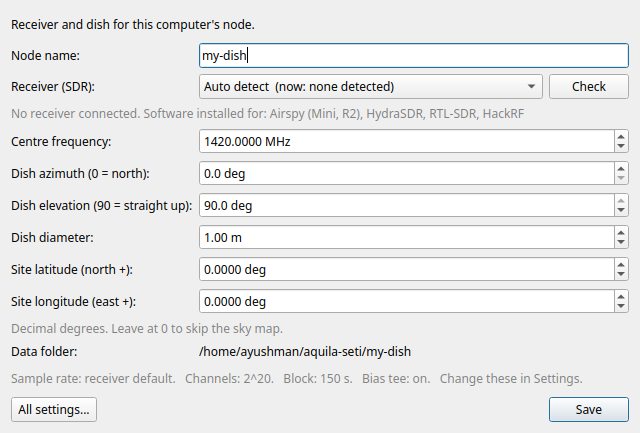
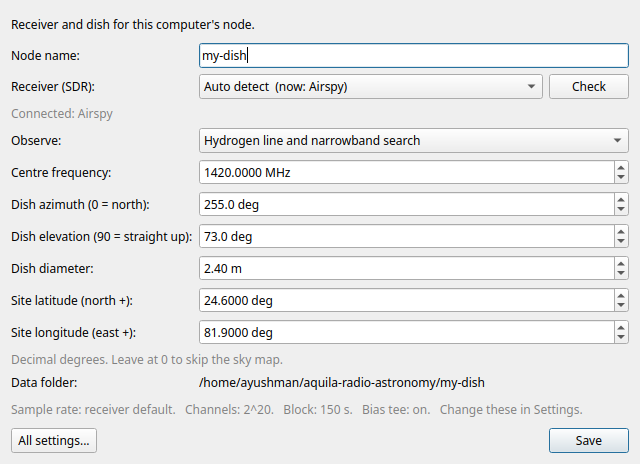
Hydrogen line only or with the narrowband search, chosen in Quick setup or Settings
The search tabs are hidden when it is off and Start runs the line alone.
Descriptions no longer mention dish size or receiver price. README leads
with the hydrogen line screenshot.

Changed region(s): [[0.0, 0.03, 1.0, 0.9908]]

diff --git a/aquila/gui.py b/aquila/gui.py
@@ -792,6 +792,11 @@ class Settings(QDialog):
         self.auto_login.setChecked(autostart.enabled())
         self.auto_obs = QCheckBox("Start observing as soon as the app opens")
         self.auto_obs.setChecked(bool((cfg.get("app") or {}).get("observe_on_open")))
+        self.narrow = QCheckBox("Narrowband search as well as the hydrogen line")
+        self.narrow.setChecked((cfg.get("app") or {}).get("narrowband", True))
+        self.narrow.setToolTip("Off: the app observes the hydrogen line only and the search "
+                               "tabs are hidden. Change it any time.")
+        form.addRow("Observe:", self.narrow)
         form.addRow("Startup:", self.auto_login)
         form.addRow("", self.auto_obs)
         snote = QLabel("Tick both and a node comes back by itself after a power cut, once "
@@ -903,7 +908,8 @@ class Settings(QDialog):
             c["_state_dir_set"] = True
         c["save"] = {"csv": self.s_csv.isChecked(), "plots": self.s_plots.isChecked(),
                      "spectra": self.s_spectra.isChecked(), "raw_iq": self.s_raw.isChecked()}
-        c["app"] = dict(c.get("app") or {}, observe_on_open=self.auto_obs.isChecked())
+        c["app"] = dict(c.get("app") or {}, observe_on_open=self.auto_obs.isChecked(),
+                        narrowband=self.narrow.isChecked())
         c["_autostart"] = self.auto_login.isChecked()
         c["center_mhz"] = self.freq.value()
         c["sample_rate"] = int(self.rate.currentData() or 0)
@@ -958,6 +964,14 @@ class QuickSetup(QDialog):
         self._scan = Call(sdr.attached)
         self._scan.done.connect(lambda names, found=found: self._scanned(names, found))
         self._scan.start()
+        self.mode = QComboBox()
+        self.mode.addItem("Hydrogen line only", False)
+        self.mode.addItem("Hydrogen line and narrowband search", True)
+        self.mode.setCurrentIndex(1 if (cfg.get("app") or {}).get("narrowband", True) else 0)
+        self.mode.setToolTip("The narrowband search looks for drifting signals across the "
+                             "band in the same observation. Can be turned on or off later "
+                             "in Settings.")
+        form.addRow("Observe:", self.mode)
         self.freq = Settings._spin(0, 30000, cfg["center_mhz"], 4, " MHz")
         form.addRow("Centre frequency:", self.freq)
         d = cfg["dish"]
@@ -1034,6 +1048,7 @@ class QuickSetup(QDialog):
         c["_state_dir_set"] = self.cfg.get("_state_dir_set")
         c["name"] = self.name.text().strip() or "my-dish"
         c["sdr"] = self.sdr.currentData()
+        c["app"] = dict(c.get("app") or {}, narrowband=bool(self.mode.currentData()))
         c["center_mhz"] = self.freq.value()
         c["dish"].update({"az": self.az.value(), "el": self.el.value(),
                           "diameter_m": self.dia.value()})
@@ -1077,7 +1092,7 @@ class Main(QMainWindow):
             # a service or an earlier copy of the app is observing already: leave it
             self.sb.showMessage(f"Not started: the data folder is in use (pid {other})", 15000)
             return
-        self.start("run")
+        self.start("run" if self.narrowband() else "hline")
 
     def first_run(self):
         self.quick_setup()
@@ -1102,6 +1117,7 @@ class Main(QMainWindow):
         self.cfg = config.load(self.cfg_path)     # state_dir follows the name until set by hand
         self.nodes[0] = Node(self.cfg["name"] + " (this computer)", self.cfg["state_dir"])
         self._fill_nodes()
+        self._apply_mode()
         if self.proc is not None and self.proc.state() != QProcess.NotRunning:
             QMessageBox.information(
                 self, "Settings", "Dish pointing and site apply from the next block. "
@@ -1257,7 +1273,7 @@ class Main(QMainWindow):
         outer.setSizes([600, 220])
         outer.setStretchFactor(0, 3)
         outer.setStretchFactor(1, 1)
-        tabs.addTab(outer, "Narrowband search")
+        self.sv_tab = tabs.addTab(outer, "Narrowband search")
 
         # Hydrogen line
         w = QSplitter(Qt.Vertical)
@@ -1312,7 +1328,7 @@ class Main(QMainWindow):
         w.setSizes([560, 260])
         w.setStretchFactor(0, 3)
         w.setStretchFactor(1, 1)
-        tabs.addTab(w, "Hydrogen line")
+        self.hl_tab = tabs.addTab(w, "Hydrogen line")
 
         # Candidates
         w = QWidget()
@@ -1331,7 +1347,7 @@ class Main(QMainWindow):
         self.c_thumb = ImagePane("Select a candidate to see its block.")
         right.addWidget(self.c_thumb, 1)
         lay.addLayout(right, 2)
-        tabs.addTab(w, "Candidates")
+        self.c_tab = tabs.addTab(w, "Candidates")
 
         # Log
         self.log = QPlainTextEdit()
@@ -1342,6 +1358,20 @@ class Main(QMainWindow):
         self.log_tab = tabs.addTab(self.log, "Log")
         self.tabs = tabs
         tabs.currentChanged.connect(lambda i: i == self.log_tab and self.refresh(force=True))
+        self._apply_mode()
+
+    def narrowband(self):
+        return bool((self.cfg.get("app") or {}).get("narrowband", True))
+
+    def _apply_mode(self):
+        """Hydrogen line only: the search tabs go away and Start runs the line alone."""
+        nb = self.narrowband()
+        self.tabs.setTabVisible(self.sv_tab, nb)
+        self.tabs.setTabVisible(self.c_tab, nb)
+        self.a_seti.setVisible(nb)
+        self.a_hline.setText("Start hydrogen line only" if nb else "Start observing")
+        if not nb and self.tabs.currentIndex() in (self.sv_tab, self.c_tab):
+            self.tabs.setCurrentIndex(self.hl_tab)
 
         self.sb = self.statusBar()
         self.sb_label = QLabel("")
@@ -2173,7 +2203,7 @@ class Main(QMainWindow):
                                                Qt.SmoothTransformation))
         box.setText(
             f"Aquila Radio Astronomy {__version__}\n\nNarrowband search and hydrogen line "
-            "observing for small dishes.\n\nAyushman Tripathi\n"
+            "observing with a dish and an SDR.\n\nAyushman Tripathi\n"
             "www.radioastronomy.in\n\n"
             "MIT licence: free for anyone to use and modify.\n\n"
             "Hydrogen line plots by Virgo (astro-virgo, GPL-3), "

diff --git a/aquila/config.py b/aquila/config.py
@@ -57,6 +57,7 @@ DEFAULTS = {
     "hline": {},                   # overrides for aquila.hline.DEFAULTS
     "app": {
         "observe_on_open": False,  # the desktop app starts observing as soon as it opens
+        "narrowband": True,        # False: hydrogen line only, the search tabs are hidden
     },
     "save": {
         "csv": True,               # hits.csv, rfi.csv, scans.csv

diff --git a/aquila/__init__.py b/aquila/__init__.py
@@ -1,3 +1,3 @@
-"""Aquila Radio Astronomy: narrowband SETI survey and hydrogen line for small dishes and cheap SDRs.
+"""Aquila Radio Astronomy: narrowband SETI survey and hydrogen line with a dish and an SDR.
 Ayushman Tripathi, www.radioastronomy.in. MIT."""
 __version__ = "0.2.0"

diff --git a/README.md b/README.md
@@ -1,12 +1,12 @@
 # Aquila Radio Astronomy
 
-Desktop app and observing node for a small dish and a cheap SDR. It does two things with one observation: a narrowband drift search across the band, and hydrogen line spectra of whatever the dish is looking at. Point the dish, plug in the receiver, press Start.
+Desktop app and observing node for a dish and an SDR. It does two things with one observation: hydrogen line spectra of whatever the dish is looking at, and a narrowband drift search across the band. Point the dish, plug in the receiver, press Start.
 
 Works with Airspy, HydraSDR, RTL-SDR and HackRF. Runs on Windows, Linux and macOS, and as a headless node on a Raspberry Pi. Several nodes can be watched from one desktop over the network.
 
 Ayushman Tripathi, [radioastronomy.in](https://radioastronomy.in/). MIT licence.
 
-![narrowband search](docs/survey.png)
+![hydrogen line](docs/hline.png)
 
 ## Install
 
@@ -29,7 +29,7 @@ A source install needs the vendor tool for your receiver on PATH: `airspy_rx`, `
 
 ## First run
 
-The app opens on a Quick setup page with everything filled in: the receiver it found, the centre frequency, where the dish points. Check it, press Save, then Start observing.
+The app opens on a Quick setup page with everything filled in: the receiver it found, the centre frequency, where the dish points. Choose hydrogen line only or the narrowband search as well, press Save, then Start observing. The choice can be changed any time in Settings; with the search off its tabs are hidden.
 
 ![quick setup](docs/setup.png)
 
@@ -39,9 +39,9 @@ Settings has the rest, with working defaults. Advanced values live in the config
 
 **Narrowband search.** Every 150 s block of the receiver goes through a 2^20 point FFT into a waterfall a few Hz per channel. Every channel is divided by its own median over the block, which flattens the passband and anything fixed in frequency; a drifting signal survives. Every integer channel shift across the block is then tried, a de-Doppler search, and channels above threshold are logged as hits with their drift, width and how many rows of the block they occupy. Strong steady carriers go to a separate list. Hits are linked across blocks offline: a track that drifts relative to the receiver's own reference and lasts a beam transit is tier A; a frequency seen at widely separated times of the same day cannot be the sky and is dropped.
 
-**Hydrogen line.** The same block is binned to 1024 channels and written as a [virgo](https://github.com/0xCoto/VIRGO) scan, so the line plots update every block while the search runs. Take one receiver reference, a 50 ohm terminator on the LNA or a patch of cold sky, and every scan after that is calibrated. A hydrogen-line-only mode exists for machines too weak for the big FFT.
+![narrowband search](docs/survey.png)
 
-![hydrogen line](docs/hline.png)
+**Hydrogen line.** The same block is binned to 1024 channels and written as a [virgo](https://github.com/0xCoto/VIRGO) scan, so the line plots update every block while the search runs. Take one receiver reference, a 50 ohm terminator on the LNA or a patch of cold sky, and every scan after that is calibrated. A hydrogen-line-only mode exists for machines too weak for the big FFT.
 
 **Nothing piles up.** Raw samples never touch the disk, memory is fixed, and disk use is capped, so a node runs for months unattended. What is kept: hit tables, a thumbnail per block, small snippets around the strongest hits, the hydrogen line scans.
 
